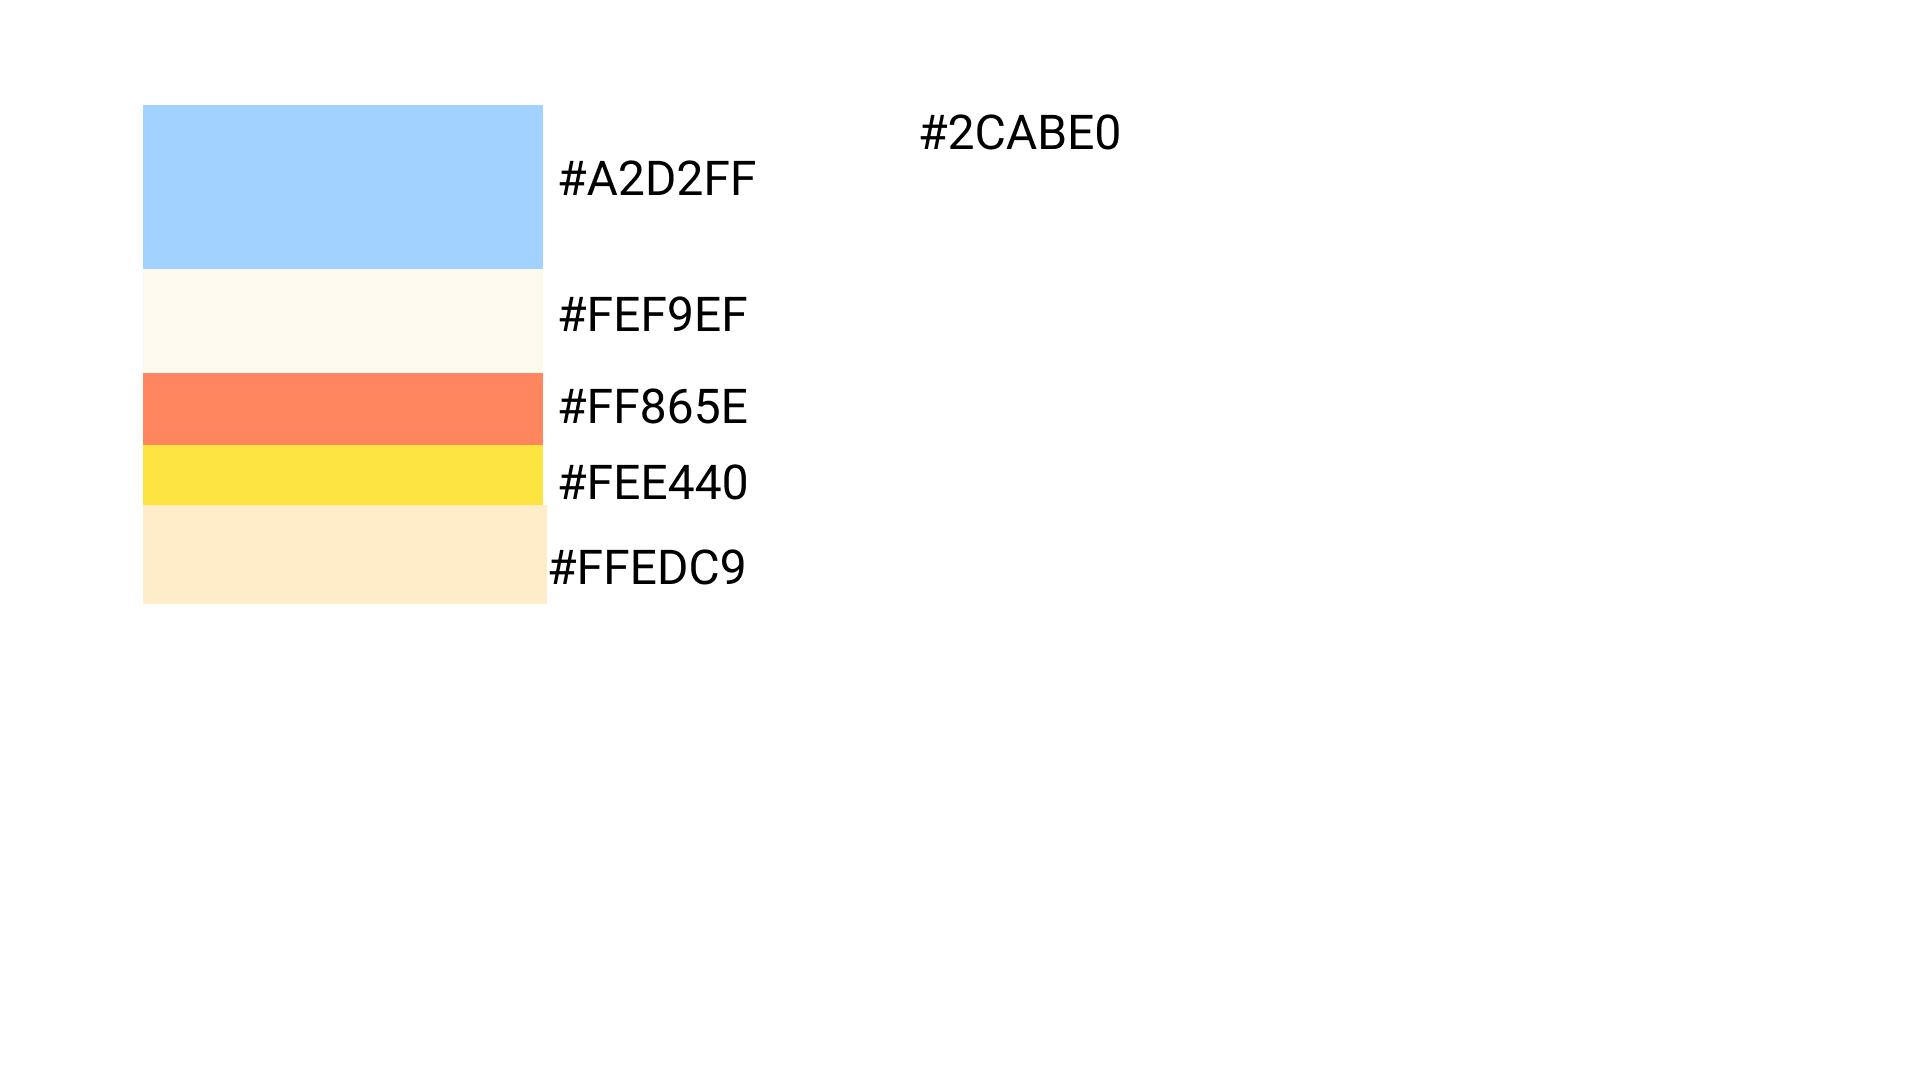
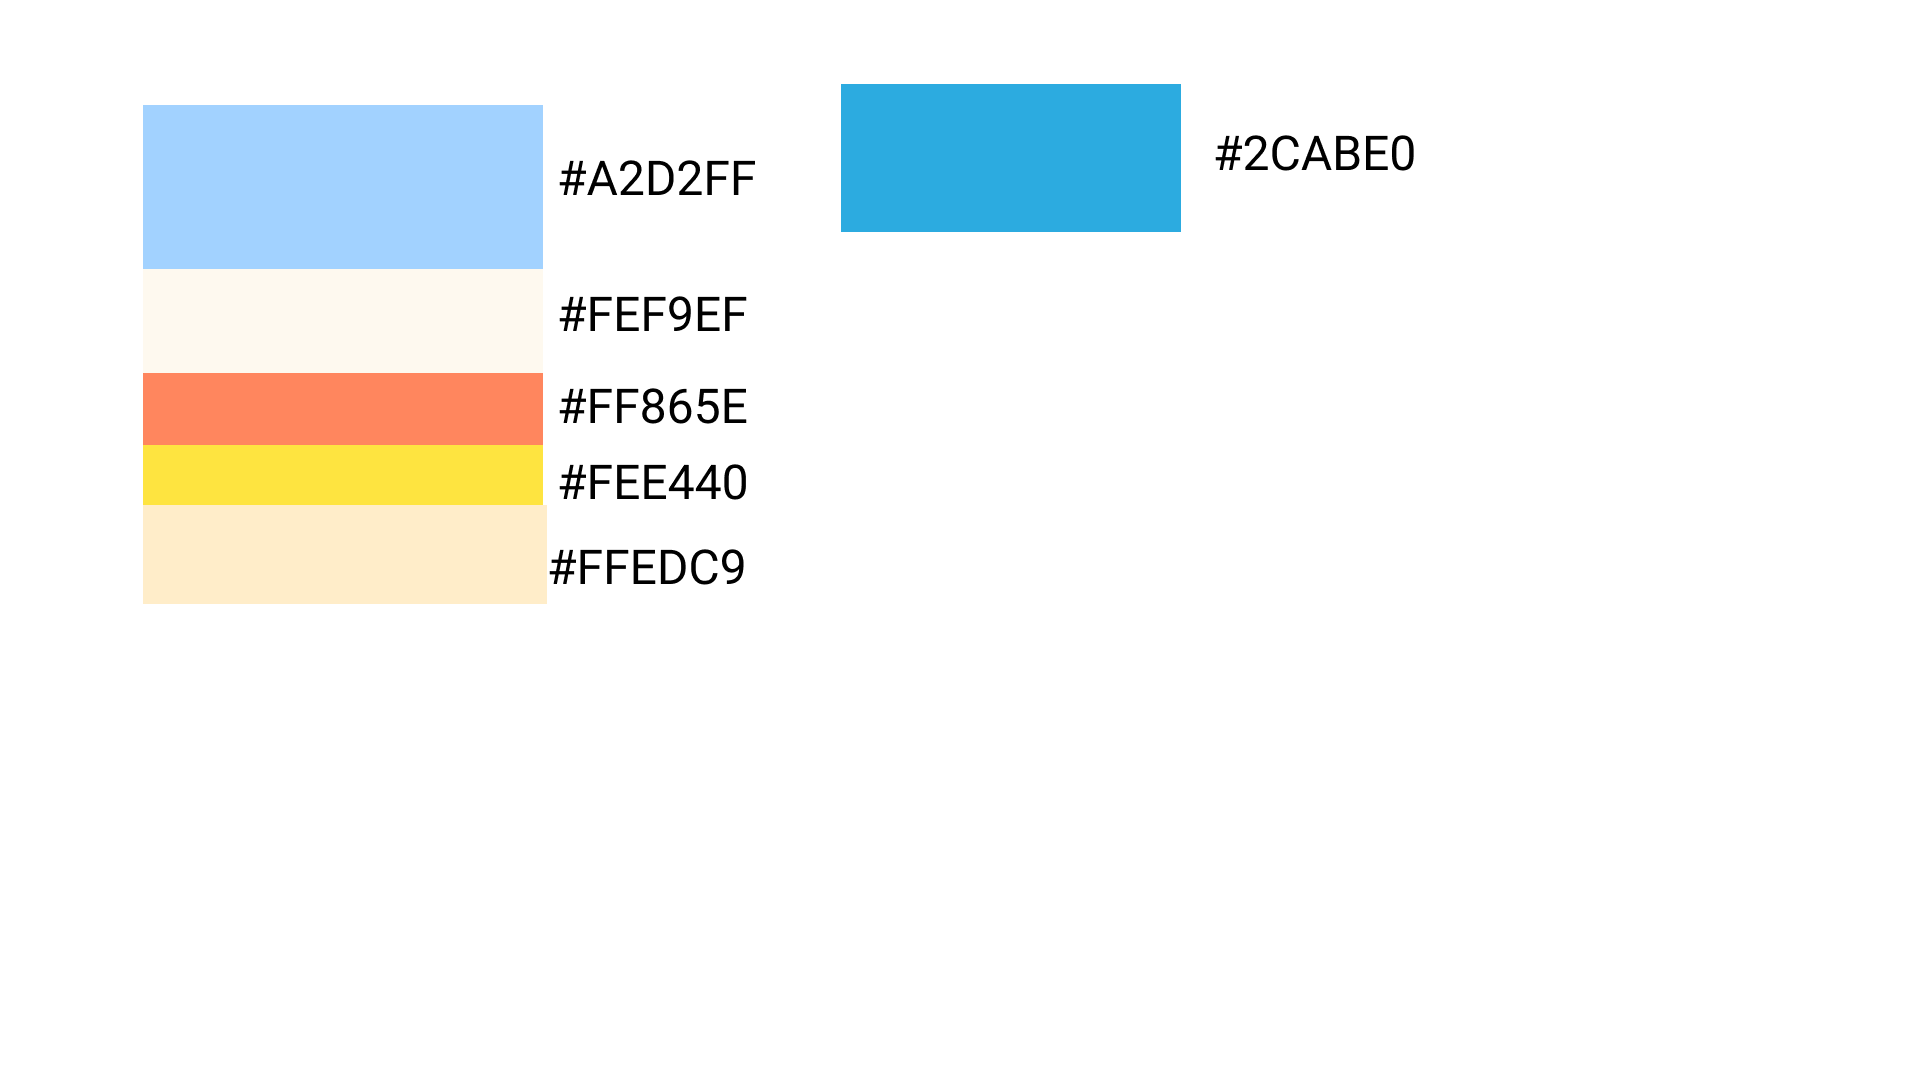
update

Changed region(s): [[0.4375, 0.0611, 0.75, 0.2139]]

diff --git a/css/style.css b/css/style.css
@@ -9,13 +9,16 @@ body {
     font-size: 16px;
     font-family: Arial, Helvetica, sans-serif;
     line-height: 1.5;
-    background-color: lightseagreen;
+    background-color: #2CABE0;
     color: white;
 }
-
+header {
+    display: flex;
+    justify-content: center;
+}
 h1 {
     text-align: center;
-    color: darkslategrey;
+    color: black;
 }
 
 .container {
@@ -47,7 +50,7 @@ input {
 .li-container {
     background-color: white;
     width: 100%;
-    color: darkslategray;
+    color: black;
     margin-top: 20px;
 }
 
@@ -85,7 +88,7 @@ li p {
 
 .btn-delete:hover {
     cursor: pointer;
-    background-color: lightseagreen;
+    background-color: #FEE440;
 }
 
 .btn-add {
@@ -93,18 +96,19 @@ li p {
     border: none;
     color: white;
     font-family: fantasy;
-    background-color: teal;
+    background-color: #FF865E;
     font-size: 1.4rem;
     outline: none;
 }
 
 .btn-add:hover {
     cursor: pointer;
-    background-color: darkcyan;
+    background-color: #FEE440;
 }
 
 .empty {
-    color: darkslategrey;
+    color: #FE5C27;
+    font-weight: bold;
 }
 footer {
     display: flex;

diff --git a/index.html b/index.html
@@ -11,11 +11,14 @@
 </head>
 
 <body>
+  <header>
+    <img src="./img/smoking-azul.jpg" alt="Foto principal">
+  </header>
     <div class="container">
-        <h1>Lista de Tareas</h1>
+        <h1>Amigo Invisible</h1>
         <div class="search">
             <form>
-                <input type="text" placeholder="Agregar tarea...">
+                <input type="text" placeholder="Añade un nombre...">
                 <button class="btn-add">+</button>
             </form>
         </div>
@@ -25,7 +28,7 @@
             </ul>
         </div>
         <div class="empty">
-            <p>No tienes tareas pendientes.</p>
+            <p>Añade nombres a la lista.</p>
         </div>
     </div>
     <footer> 
